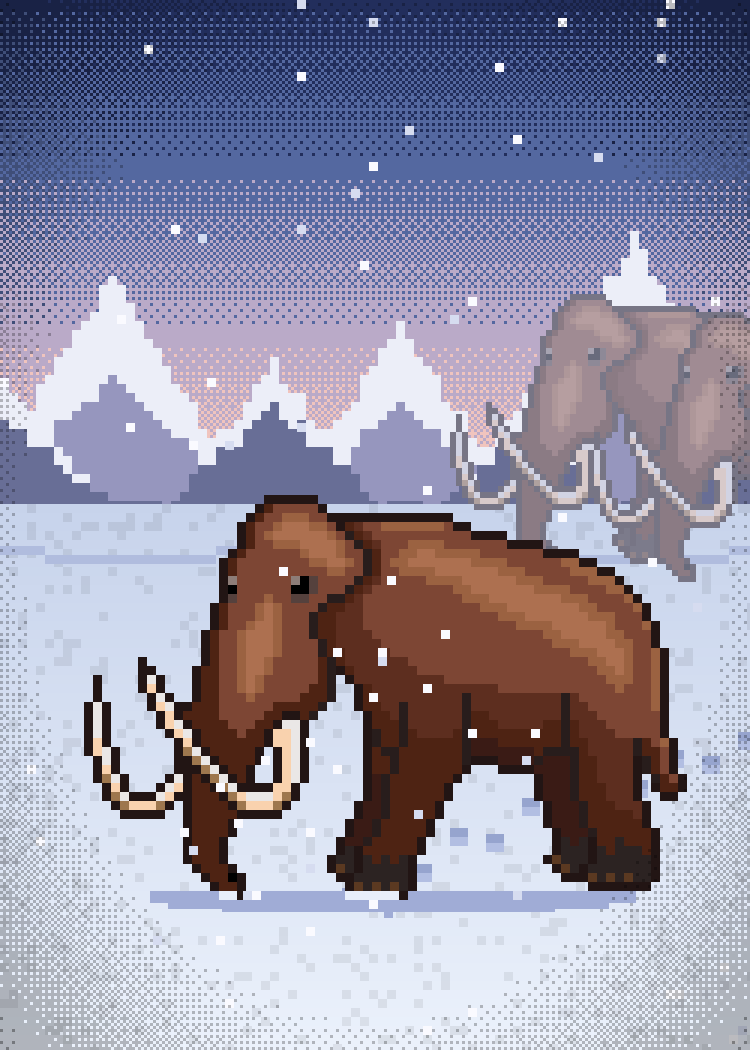
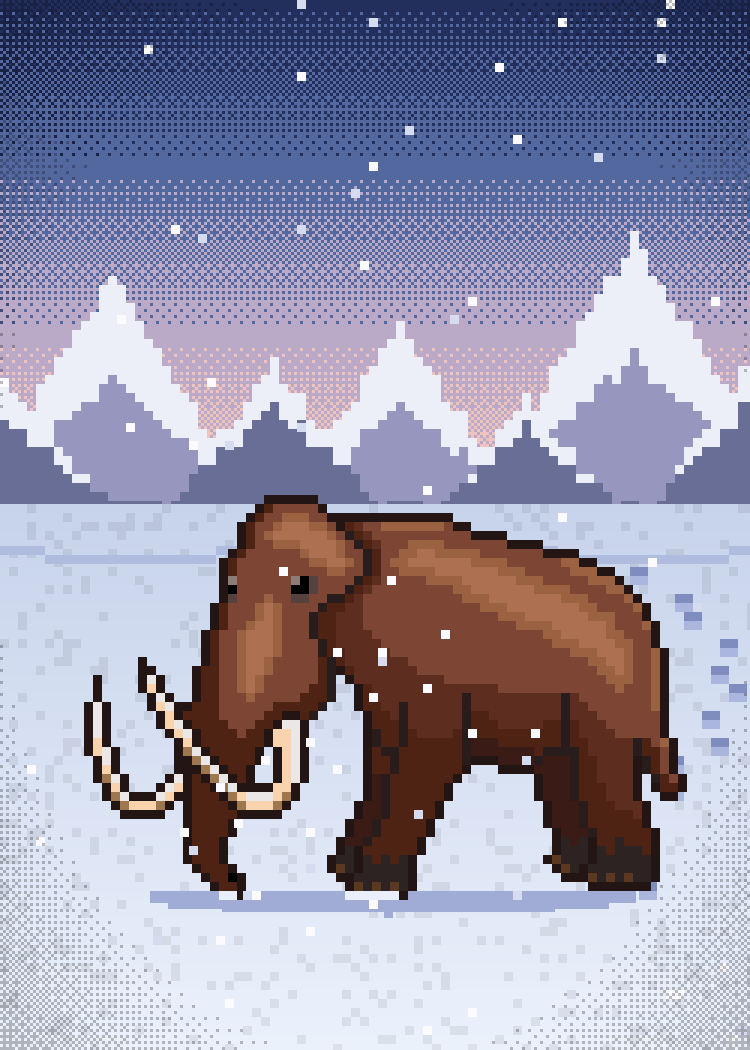
Sleeve-Entwürfe Runde 3b: Zwischenstand der laufenden Blöcke
Claude-Session: https://claude.ai/code/session_01TEnvTzH2xD44R6Unjv7vDo

diff --git a/data/sleeve-proposals/runde3/generator/s58_mammoth_trek.py b/data/sleeve-proposals/runde3/generator/s58_mammoth_trek.py
@@ -1,10 +1,9 @@
 # -*- coding: utf-8 -*-
 """Sleeve 58 – „Mammoth Trek“ (Runde 3b, neu): Eiszeit. Ein Wollmammut stapft im Schneetreiben durch die
-Schneeebene und zieht eine Spur tiefer Fußstapfen hinter sich her; im Dunst dahinter ziehen zwei weitere Mammuts
-über den Kamm, am Horizont schneebedeckte Berge im Abendlicht.
+Schneeebene und zieht eine Spur tiefer Fußstapfen hinter sich her, die sich bis zum Schneekamm zurückverfolgen
+lässt; am Horizont schneebedeckte Berge im Abendlicht.
 
-Skalierung (Regel A): Mammut vorn, Schneefeld, Fußspuren, Schneeflocken 3×; die beiden fernen Mammuts 2× (klar
-weiter hinten, im Dunst aufgehellt); Berge als Silhouette im 3×-Raster, Himmel Dither-Verlauf (selbst erstellt).
+Skalierung (Regel A): Mammut, Schneefeld, Fußspuren, Schneeflocken 3×; Berge als Silhouette im 3×-Raster, Himmel Dither-Verlauf (selbst erstellt).
 
 Vollständigkeit (Regel B): Ebene „Ebene #367“ [773] ist das ganze Mammut; in der Kartenszene „Sichtbar #51“ [771]
 liegt darüber nur die Bewegungsunschärfe „Whoolmoth“ [774] (Angriffs-Effekt) – ohne sie ist die Figur vollständig.
@@ -60,21 +59,23 @@ for i in range(W2 // K + 1):
     y = HOR + 12 + int(6 * math.sin(i / 9.0)) // K * K
     cv.rect(i * K, y, i * K + K, y + K, (176, 188, 222))
 
-# ferne Mammuts (2×, im Dunst) auf dem Kamm
 mam = lay(B, 773)
 Image.fromarray(mam).save(os.path.join(xcfkit.CACHE, 'g58_mammoth.png'))
-far = tint(up(mam, 2), (190, 196, 226), 0.55)
-for x, y in ((150, 188), (196, 194)):
-    cv.paste(far, x, y - far.shape[0])
 
 # ---------------------------------------------------------------- Mammut vorne (3×) + Fußspuren
 M = up(mam, K)
 mx, feet = 28, 300
 # Spur: Fußstapfen (3×3 Blöcke) von rechts hinten zum Mammut
-for j, (fx, fy) in enumerate(((246, 244), (234, 252), (222, 250), (210, 260), (198, 258), (186, 268),
-                              (174, 266), (162, 278), (150, 276), (138, 288), (126, 286), (114, 296))):
-    cv.rect(fx, fy, fx + 2 * K, fy + K, (150, 164, 206))
-    cv.rect(fx, fy + K, fx + 2 * K, fy + 2 * K, (178, 190, 226))
+# Spur zieht sich vom Kamm (rechts hinten) in Schlangenlinie bis zu den Hinterbeinen
+pts = []
+for j in range(14):
+    t = j / 13
+    fx = int(214 + 22 * math.sin(t * 5.0) + 20 * t) // K * K
+    fy = int(HOR + 20 + t * 104) // K * K
+    pts.append((fx + (K if j % 2 else -K), fy))
+for fx, fy in pts:
+    cv.rect(fx, fy, fx + 2 * K, fy + K, (126, 140, 190))
+    cv.rect(fx, fy + K, fx + 2 * K, fy + 2 * K, (170, 182, 222))
 # Schatten unter dem Mammut (flach, 3×-Raster)
 for i in range(-26, 28):
     w = int(4 * math.sqrt(max(0.0, 1 - (i / 28) ** 2)))
@@ -91,5 +92,5 @@ for i in range(70):
     x, y = rng.randint(0, W2 // K) * K, rng.randint(0, H2 // K) * K
     c = (250, 250, 255) if rng.rand() < 0.7 else (214, 220, 240)
     cv.rect(x, y, x + K, y + K, c)
-vignette(cv, 0.3, 0.65)
+vignette(cv, 0.2, 0.7)
 print(save(cv, '58_mammoth_trek.png'))

diff --git a/data/sleeve-proposals/runde3/generator/s18_white_parade.py b/data/sleeve-proposals/runde3/generator/s18_white_parade.py
@@ -85,8 +85,7 @@ for x0, fl in [(2, False), (W - Sw - 2, True)]:
 # ---------- Stellin 6× im Vordergrund
 Tw, Th = stellin.shape[1] * KF, stellin.shape[0] * KF
 tx, ty = (W - Tw) // 2, H - Th - 10
-for j in range(2):
-    cv.rect(tx + 2 * KF, ty + Th - KF // 2 + j * KF // 2 * 2, tx + Tw - 2 * KF, ty + Th + KF // 2 + j * KF // 2 * 2, (176, 176, 220))
+cv.rect(tx + 2 * KF, ty + Th - KF, tx + Tw - 2 * KF, ty + Th + KF, (176, 176, 220))   # Schatten (6×-Raster)
 put(cv, stellin, tx, ty, KF, ol=(30, 20, 30))
 
 print(save(cv, '18_white_parade.png'))
